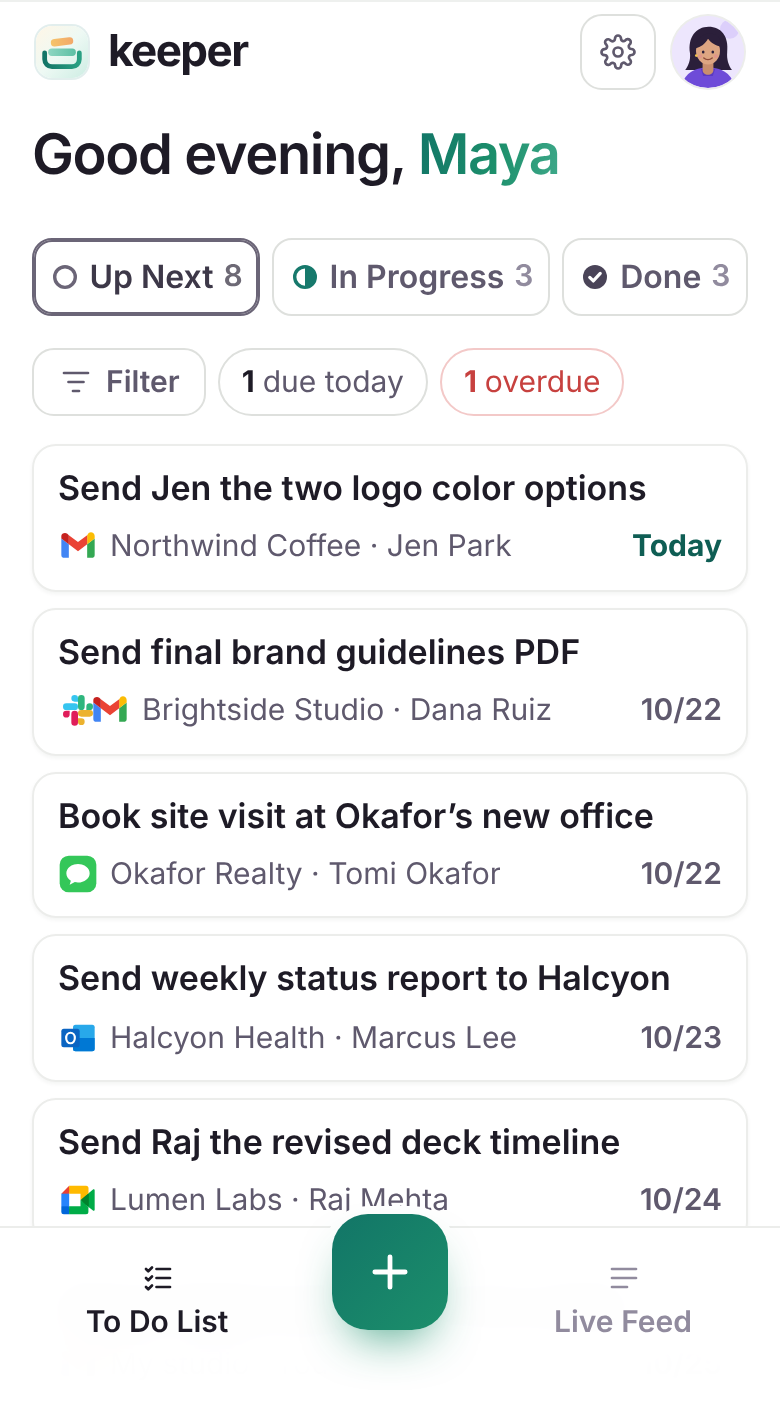
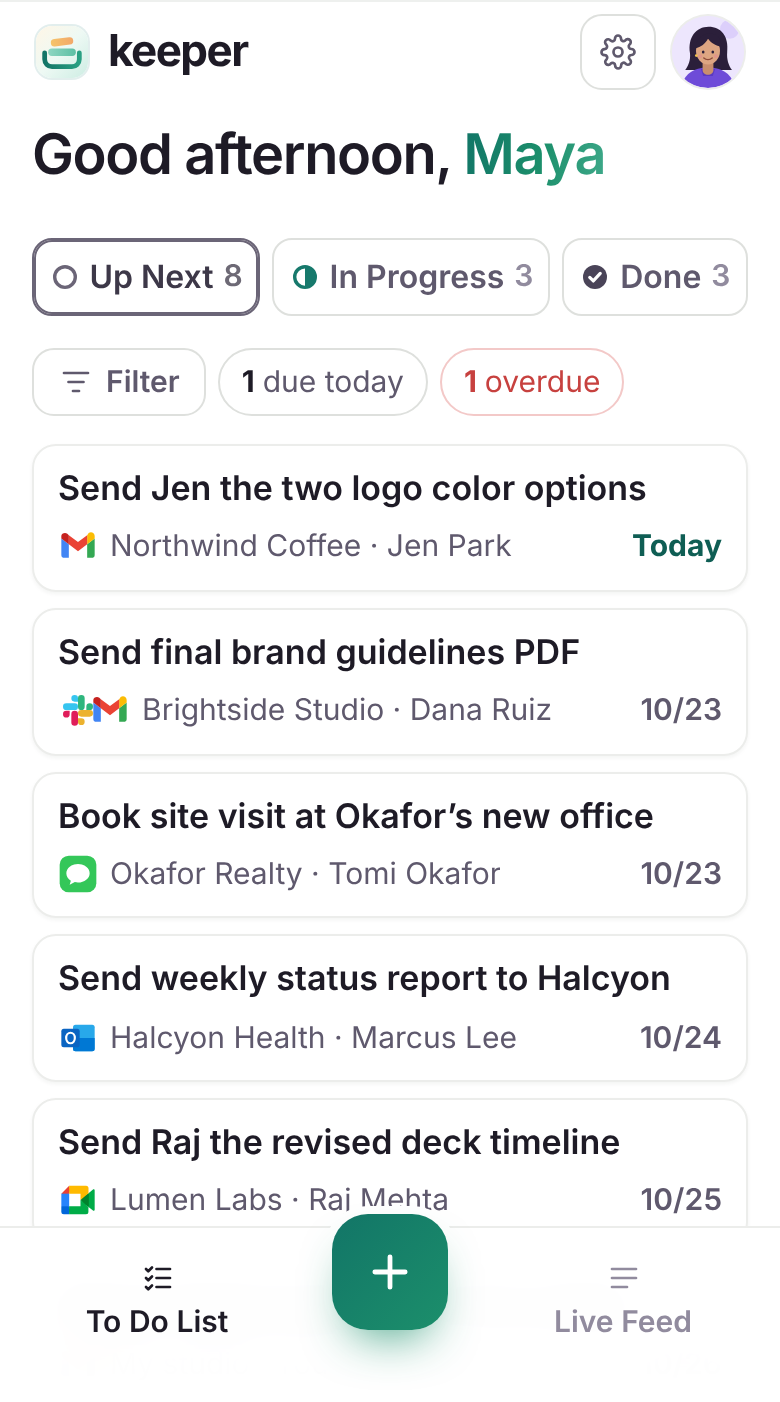
Refresh list screenshot
Claude-Session: https://claude.ai/code/session_014YvqzXwex4AdHRyQpUpAPT

diff --git a/landing.html b/landing.html
@@ -701,8 +701,8 @@
       </article>
     </div>
     <div class="what-shots">
-      <figure class="what-shot rev"><div class="phone"><span class="btn-l1" aria-hidden="true"></span><span class="btn-l2" aria-hidden="true"></span><span class="btn-l3" aria-hidden="true"></span><span class="btn-r" aria-hidden="true"></span><div class="island" aria-hidden="true"></div><div class="screen"><div class="status" aria-hidden="true"><b>9:41</b><span class="sig"></span></div><img src="img/m-onb.png?v=1020d" alt="Settings showing Gmail, Slack, business texts and Zoom connected" loading="lazy"></div></div><figcaption><b>Every channel feeds in</b>Gmail, Outlook, Slack, business texts, Zoom and Meet.</figcaption></figure>
-      <figure class="what-shot rev"><div class="phone"><span class="btn-l1" aria-hidden="true"></span><span class="btn-l2" aria-hidden="true"></span><span class="btn-l3" aria-hidden="true"></span><span class="btn-r" aria-hidden="true"></span><div class="island" aria-hidden="true"></div><div class="screen"><div class="status" aria-hidden="true"><b>9:41</b><span class="sig"></span></div><img src="img/m-list.png?v=1020d" alt="The Keeper board on a phone, with tasks sorted by due date" loading="lazy"></div></div><figcaption><b>Get one list</b>Every commitment, sorted by due date, with the original message one tap away.</figcaption></figure>
+      <figure class="what-shot rev"><div class="phone"><span class="btn-l1" aria-hidden="true"></span><span class="btn-l2" aria-hidden="true"></span><span class="btn-l3" aria-hidden="true"></span><span class="btn-r" aria-hidden="true"></span><div class="island" aria-hidden="true"></div><div class="screen"><div class="status" aria-hidden="true"><b>9:41</b><span class="sig"></span></div><img src="img/m-onb.png?v=1021a" alt="Settings showing Gmail, Slack, business texts and Zoom connected" loading="lazy"></div></div><figcaption><b>Every channel feeds in</b>Gmail, Outlook, Slack, business texts, Zoom and Meet.</figcaption></figure>
+      <figure class="what-shot rev"><div class="phone"><span class="btn-l1" aria-hidden="true"></span><span class="btn-l2" aria-hidden="true"></span><span class="btn-l3" aria-hidden="true"></span><span class="btn-r" aria-hidden="true"></span><div class="island" aria-hidden="true"></div><div class="screen"><div class="status" aria-hidden="true"><b>9:41</b><span class="sig"></span></div><img src="img/m-list.png?v=1021a" alt="The Keeper board on a phone, with tasks sorted by due date" loading="lazy"></div></div><figcaption><b>Get one list</b>Every commitment, sorted by due date, with the original message one tap away.</figcaption></figure>
     </div>
     <div class="sec-cta center"><a class="btn primary" href="index.html">Try Keeper free</a></div>
   </div>
@@ -735,11 +735,11 @@
     </div>
     <div class="steps">
       <div class="step rev"><span class="k">1</span><h3>Connect your channels</h3><p>Turn on the inboxes, workspaces and calls you use. It takes about as long as making toast. Clients can text a business number so your personal one stays private.</p>
-        <div class="phone"><span class="btn-l1" aria-hidden="true"></span><span class="btn-l2" aria-hidden="true"></span><span class="btn-l3" aria-hidden="true"></span><span class="btn-r" aria-hidden="true"></span><div class="island" aria-hidden="true"></div><div class="screen"><div class="status" aria-hidden="true"><b>9:41</b><span class="sig"></span></div><img src="img/m-onb.png?v=1020d" alt="Choosing which channels Keeper tracks" loading="lazy"></div></div></div>
+        <div class="phone"><span class="btn-l1" aria-hidden="true"></span><span class="btn-l2" aria-hidden="true"></span><span class="btn-l3" aria-hidden="true"></span><span class="btn-r" aria-hidden="true"></span><div class="island" aria-hidden="true"></div><div class="screen"><div class="status" aria-hidden="true"><b>9:41</b><span class="sig"></span></div><img src="img/m-onb.png?v=1021a" alt="Choosing which channels Keeper tracks" loading="lazy"></div></div></div>
       <div class="step rev"><span class="k">2</span><h3>Review what Keeper found</h3><p>Every commitment lands with its client, due date and a link to the original message. Keep it or dismiss it.</p>
-        <div class="phone"><span class="btn-l1" aria-hidden="true"></span><span class="btn-l2" aria-hidden="true"></span><span class="btn-l3" aria-hidden="true"></span><span class="btn-r" aria-hidden="true"></span><div class="island" aria-hidden="true"></div><div class="screen"><div class="status" aria-hidden="true"><b>9:41</b><span class="sig"></span></div><img src="img/m-review.png?v=1020d" alt="Reviewing the tasks Keeper found, with Keep and Dismiss buttons" loading="lazy"></div></div></div>
+        <div class="phone"><span class="btn-l1" aria-hidden="true"></span><span class="btn-l2" aria-hidden="true"></span><span class="btn-l3" aria-hidden="true"></span><span class="btn-r" aria-hidden="true"></span><div class="island" aria-hidden="true"></div><div class="screen"><div class="status" aria-hidden="true"><b>9:41</b><span class="sig"></span></div><img src="img/m-review.png?v=1021a" alt="Reviewing the tasks Keeper found, with Keep and Dismiss buttons" loading="lazy"></div></div></div>
       <div class="step rev"><span class="k">3</span><h3>Let Keeper handle the easy ones</h3><p>For routine replies and scheduling, Keeper prepares a draft or a booking. Approve it in one tap, or let it handle those on its own.</p>
-        <div class="phone"><span class="btn-l1" aria-hidden="true"></span><span class="btn-l2" aria-hidden="true"></span><span class="btn-l3" aria-hidden="true"></span><span class="btn-r" aria-hidden="true"></span><div class="island" aria-hidden="true"></div><div class="screen"><div class="status" aria-hidden="true"><b>9:41</b><span class="sig"></span></div><img src="img/m-draft.png?v=1020d" alt="A reply Keeper drafted, ready to send" loading="lazy"></div></div></div>
+        <div class="phone"><span class="btn-l1" aria-hidden="true"></span><span class="btn-l2" aria-hidden="true"></span><span class="btn-l3" aria-hidden="true"></span><span class="btn-r" aria-hidden="true"></span><div class="island" aria-hidden="true"></div><div class="screen"><div class="status" aria-hidden="true"><b>9:41</b><span class="sig"></span></div><img src="img/m-draft.png?v=1021a" alt="A reply Keeper drafted, ready to send" loading="lazy"></div></div></div>
     </div>
   </div>
 </section>
@@ -760,15 +760,15 @@
     <div class="feat-grid">
       <article class="feat f1 rev">
         <div class="feat-txt"><h3 class="feat-name">Pulled from your channels</h3><p class="feat-sub">See where every task came from</p><p>The exact line from the email, Slack or text that created it, with the original one tap away.</p></div>
-        <div class="crop"><img src="img/m-task.png?v=1020d" alt="A task showing the original email it came from, with an Open in Gmail button" loading="lazy" style="width:100%;transform:translate(0%,-50%)"></div>
+        <div class="crop"><img src="img/m-task.png?v=1021a" alt="A task showing the original email it came from, with an Open in Gmail button" loading="lazy" style="width:100%;transform:translate(0%,-50%)"></div>
       </article>
       <article class="feat f2 rev">
         <div class="feat-txt"><h3 class="feat-name">Mobile first</h3><p class="feat-sub">Your day on one screen</p><p>Sorted by due date. Swipe right to finish a task.</p></div>
-        <div class="crop"><img src="img/m-board.png?v=1020d" alt="The Keeper list on a phone, with drafts ready to approve" loading="lazy" style="width:72%;left:14%;transform:translate(0%,-32.8%)"></div>
+        <div class="crop"><img src="img/m-board.png?v=1021a" alt="The Keeper list on a phone, with drafts ready to approve" loading="lazy" style="width:72%;left:14%;transform:translate(0%,-32.8%)"></div>
       </article>
       <article class="feat f3 rev">
         <div class="feat-txt"><h3 class="feat-name">Voice mode</h3><p class="feat-sub">Say it, don’t type it</p><p>Tap once and talk. Keeper turns a ramble into a clean task and reads it back.</p></div>
-        <div class="crop"><img src="img/m-voice.png?v=1020d" alt="Keeper voice capture screen with a large microphone button" loading="lazy" style="width:100%;transform:translate(0%,-27%)"></div>
+        <div class="crop"><img src="img/m-voice.png?v=1021a" alt="Keeper voice capture screen with a large microphone button" loading="lazy" style="width:100%;transform:translate(0%,-27%)"></div>
       </article>
     </div>
     <div class="sec-cta center"><a class="btn primary" href="index.html">Try Keeper free</a></div>
